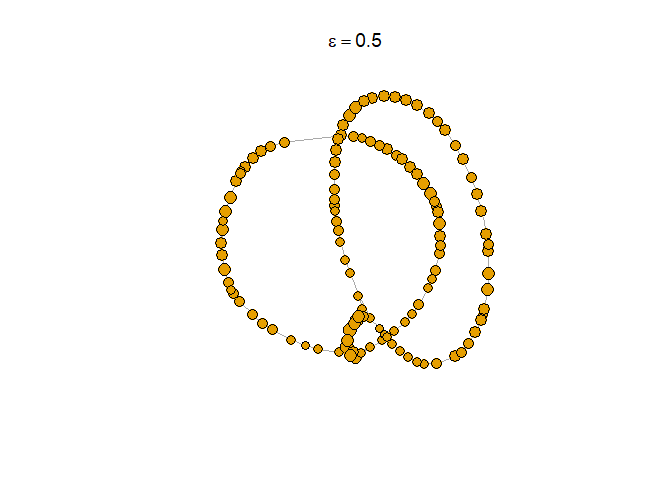
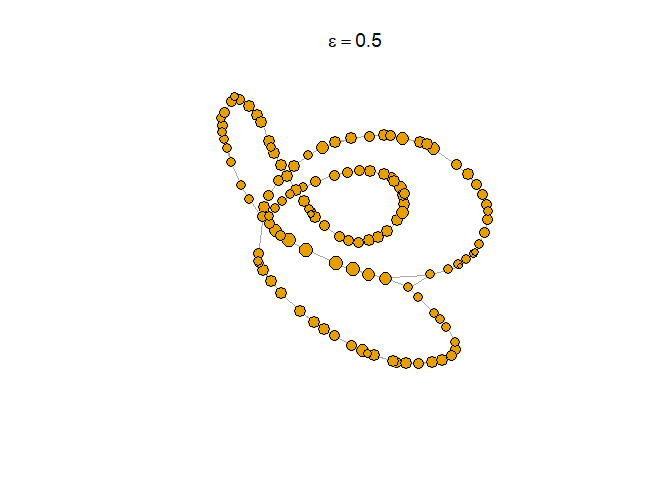
udpate docs and readme

Changed region(s): [[0.3125, 0.1875, 0.75, 0.7812], [0.4062, 0.5938, 0.4375, 0.625], [0.375, 0.6562, 0.4062, 0.6875]]

diff --git a/README.md b/README.md
@@ -19,14 +19,14 @@ following:
 
 `library(mappeR)`
 
-To install the latest version of this package from Github, run the
-following commands:
+To install the latest development version of this package from Github,
+run the following commands:
 
 `install.packages("devtools")`
 
 `library(devtools)`
 
-`devtools::install_github("Uiowa-Applied-Topology/mappeR", upgrade=FALSE)`
+`devtools::install_github("https://github.com/Uiowa-Applied-Topology/mappeR/tree/dev", upgrade=FALSE)`
 
 `library(mappeR)`
 
@@ -147,7 +147,8 @@ Parameters:
 projx = P.data$x
 projy = P.data$y
 projz = P.data$z
-eccentricity = apply(as.matrix(P.dist), 1, sum) / num_points
+# eccentricity = apply(as.matrix(P.dist), 1, sum) / num_points
+eccentricity = eccentricity_filter(P.dist)
 
 # cover parameters to generate a width-balanced cover
 num_bins = 10
